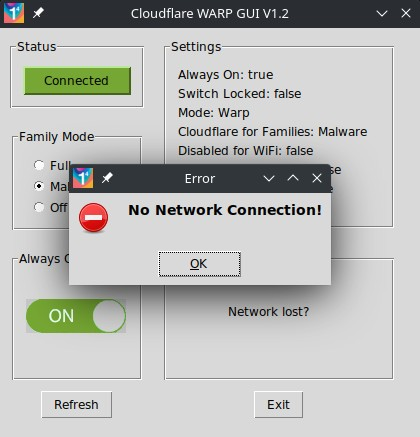
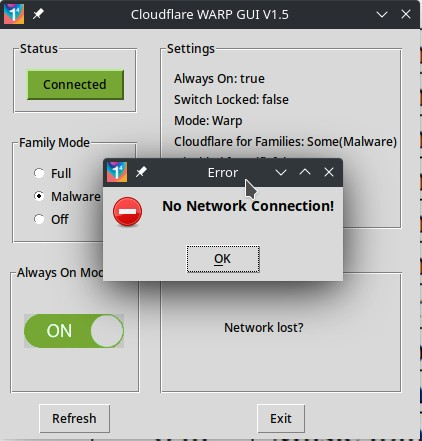
v1.5 fixes Linux driver CLI formatting updates

diff --git a/warp-cli-gui.py b/warp-cli-gui.py
@@ -30,12 +30,15 @@ Versions:
 - V0.2 Connect/Disconnect button working, Top frames and status button better aligned, connect status not reliable yet though
 - V0.3 Connect/Disconnect button status is finally stable through IF condition testing more rigorously for alternatives being returned from status command
 - V0.4 30 Dec 2021 Fixed size window, with fixed size frames and spacing
-- V0.5 31 Dec 2021 Cloudflare Warp logo added, connect status button colours changed (thanks to my wife Chantel for helping with this), family mode radio button defaults to existing setting, stats auto refresh every 2 secs after Refresh button pressed
+- V0.5 31 Dec 2021 Cloudflare Warp logo added, connect status button colours changed (thanks to my wife Chantel for helping with this), \
+    family mode radio button defaults to existing setting, stats auto refresh every 2 secs after Refresh button pressed
 - V1.0 31 Dec 2021 First stable version with just README file updated
 - V1.1 1 Jan 2022 Tidied up button press color, optimized some code, added Always On toggle setting
 - V1.2 2 Jan 2022 Removed border around toggle button, auto-refresh of stats every 2 secs when connected, optimized function naming, checks lost network connection
 - V1.3 3 Jan 2022 Code added to handle relative paths to files for single binary compiles with dependent files. Binary can be run on it's own now.
 - V1.4 18 Feb 2022 Fix "not defined bug" for 'always_connected' variable line 258
+- V1.5 19 Feb 2022 Updated UI and interpretation of the CLI output to handle Linux driver update for cloudflare-warp-bin 2022.2.29-1 dated 2022-02-13. \
+Settings output had added a preceding line, and the family mode status had "Some(status)" added
 
 
 TODO: - Option to switch WARP modes
@@ -57,7 +60,7 @@ from os import path
 
 
 # Set global variable to test during execution
-version = "V1.4"
+version = "V1.5"
 connected = True
 update_interval = 2000 # Milliseconds
 always_connected = True
@@ -109,12 +112,12 @@ frame_status = LabelFrame(root, text="Status", padx=10, pady=10)
 frame_status.grid(row=0, column=0, padx=10, pady=10)
 
 # Define frame for Settings
-frame_settings = LabelFrame(root, width=230, height=190, text="Settings", padx=10, pady=10)
+frame_settings = LabelFrame(root, width=242, height=190, text="Settings", padx=10, pady=10)
 frame_settings.grid(rowspan=2, sticky=NW, row=0, column=1, padx=10, pady=10)
 frame_settings.grid_propagate(False)  # Stops frame shrinking with smaller contents
 
 # Define frame for Stats
-frame_stats = LabelFrame(root, width=230, height=130, text="Stats", padx=10, pady=10)
+frame_stats = LabelFrame(root, width=242, height=130, text="Stats", padx=10, pady=10)
 frame_stats.grid(row=2, column=1, padx=10, pady=10)
 frame_stats.grid_propagate(False)  # Stops frame shrinking with smaller contents
 
@@ -182,15 +185,16 @@ def get_settings():
         widgets.destroy()
     # Check and read output of 'warp-cli settings' into a Python list, every line split into new list item
     warp_settings = ((subprocess.run(['warp-cli', 'settings'], capture_output=True)).stdout).splitlines()
-    warp_settings_aon = warp_settings[0]
-    warp_settings_switch = warp_settings[1]
-    warp_settings_mode = warp_settings[2]
-    warp_settings_family = warp_settings[3]
-    warp_settings_wifi = warp_settings[4]
-    warp_settings_eth = warp_settings[5]
-    warp_settings_dns = warp_settings[6]
+    warp_settings_aon = warp_settings[1]
+    warp_settings_switch = warp_settings[2]
+    warp_settings_mode = warp_settings[3]
+    warp_settings_family = warp_settings[4]
+    warp_settings_wifi = warp_settings[5]
+    warp_settings_eth = warp_settings[6]
+    warp_settings_dns = warp_settings[7]
     # Set global family_mode_status to just extracted value at end
-    family_mode_status = warp_settings_family[25 : ].lower()
+    # Modified v1.5 to cater for change in format to strip off also the "Some(" and ending ")"
+    family_mode_status = warp_settings_family[30 : -1].lower()
     # Set global value always_connected to boolean of retrieved warp_settings_aon
     if str(warp_settings_aon) == "b'Always On: false'":
         always_connected = False
@@ -304,6 +308,7 @@ auto_refresh_stats()
 
 # Family mode radio buttons to Family frame
 family_mode = StringVar()
+
 # Set default radio button to family_mode_status returned from checking settings
 family_mode.set(family_mode_status)
 # Define radio buttons and display

diff --git a/README.md b/README.md
@@ -51,6 +51,7 @@ See my video about the initial creation of this app at https://youtu.be/hhPhiV0o
 - V1.2 2 Jan 2022 Removed border around toggle button, auto-refresh of stats every 2 secs when connected, optimized function naming, checks lost network connection
 - V1.3 3 Jan 2022 Code added to handle relative paths to files for single binary compiles with dependent files. Binary can be run on it's own now.
 - V1.4 18 Feb 2022 Fix "not defined bug" for 'always_connected' variable line 258
+- V1.5 19 Feb 2022 Updated UI and interpretation of the CLI output to handle Linux driver update for cloudflare-warp-bin 2022.2.29-1 dated 2022-02-13. Settings output had added a preceding line, and the family mode status had "Some(status)" added
 
 ## License
 This software is available under the GPL-3.0. You should have received a copy of the GNU General Public License along with this program.  If not, see <http://www.gnu.org/licenses/> for more info.
